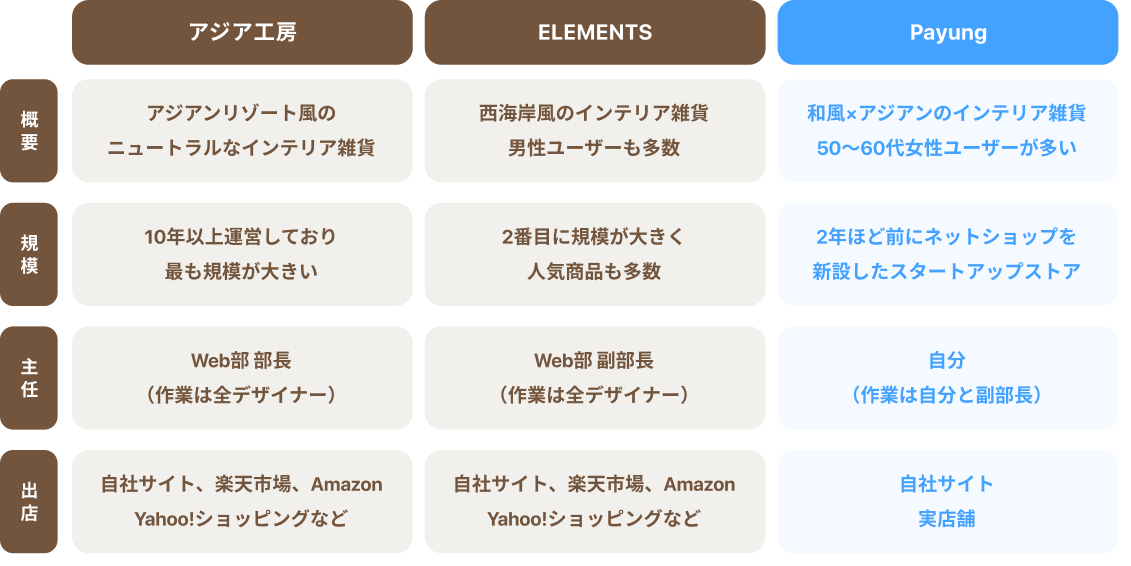
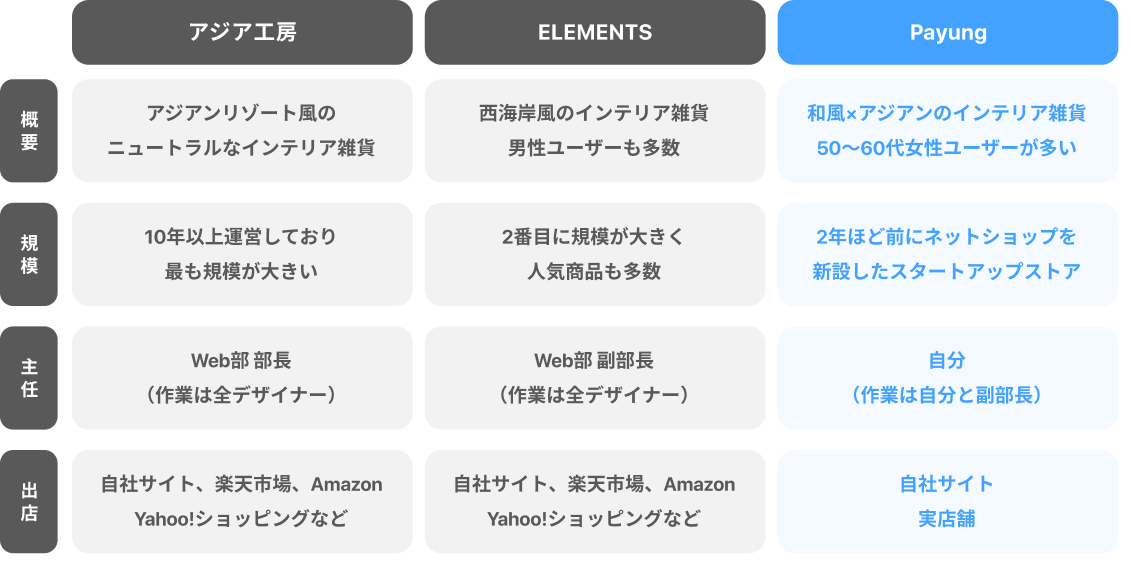
RKの茶色→グレーに修正、フライヤー注力度↓

diff --git a/works/7_rk/index.html b/works/7_rk/index.html
@@ -203,7 +203,7 @@
                                 <h3>03 フライヤー作成</h3>
                                 <p class="sections__txt">
                                     オンラインショップの商品発送時に同梱される、Payungのフライヤーのデザインと入稿作業を担当しました。<br>
-                                    実店舗の素朴でナチュラルな雰囲気が伝わるよう、店舗スタッフの方が撮影した写真をメインビジュアルに使用。全体のトーンを揃えるため、Photoshopでの色被りや歪みの補正、トーン調整などを行い、世界観に一貫性を持たせたデザインに仕上げました。
+                                    印刷物制作では通常、既存のテンプレートを活用した作業が中心でしたが、実店舗の素朴でナチュラルな雰囲気が伝わるよう、店舗スタッフの方が撮影した写真をメインビジュアルに使用しました。全体のトーンを揃えるため、Photoshopでの色被りや歪みの補正、トーン調整などを行い、世界観に一貫性を持たせたデザインに仕上げました。
                                     <a href="img/fy_1.png" data-lightbox="group"><img src="img/fy_1.png" class="img-top"
                                             alt="フライヤー作成"></a>
                                 </p>
